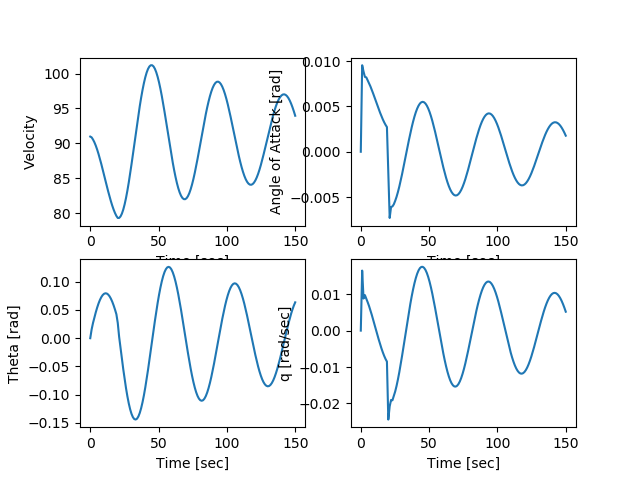
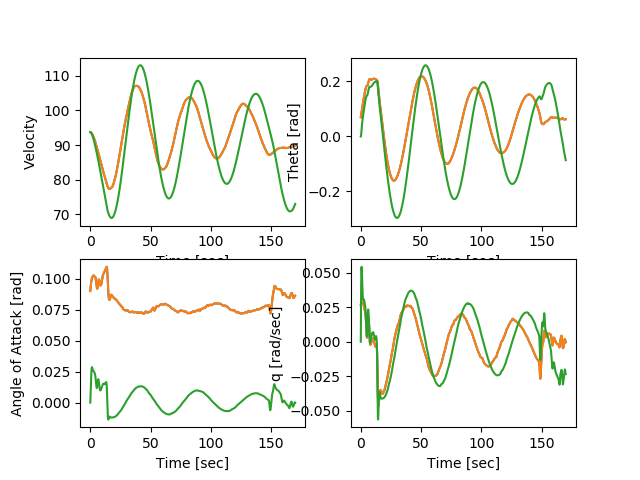
asd

diff --git a/Simulation/Cit_par_updated.py b/Simulation/Cit_par_updated.py
@@ -2,17 +2,17 @@
 from math import *
 # xcg = 0.25 * c
 from FD_CLCD import e, CD0, CLa, CL, CD #For Stationary Part
-from flight_data import time_d, V_tas_d, V_cas_d, roll_angle_d, pitch_angle_d, body_roll_rate_d, body_pitch_rate_d, body_yaw_rate_d, hp_d, m_d #For stationary meas during dynamic part
+from flight_data import time_d, V_tas_d, V_cas_d, roll_angle_d, pitch_angle_d, body_roll_rate_d, body_pitch_rate_d, body_yaw_rate_d, hp_d, m_d, CL_d, CD_d #For stationary meas during dynamic part
 
 
 
 
 
 # ==========================CHOOSE WHICH MOTION===================================================
-#i = 0 #Check code, result is zer
-i = 1 #Aperiodic Roll
+#i = 0 #Check code, result is zero
+#i = 1 #Aperiodic Roll
 # i = 2 #Short Period 
-# i = 3 #Phugoid 
+i = 3 #Phugoid 
 # i = 4 #Dutch Roll 
 # i = 5 #Dutch Roll with Yaw Damper 
 # i = 6 #Spiral 
@@ -86,8 +86,8 @@ depsda = 4 / (A + 2)            # Downwash gradient [ ]
 
 # Lift and drag coefficient
 
-CL =  CL[i]       # Lift coefficient [ ]
-CD =  CD[i]       # Drag coefficient [ ]
+CL =  CL_d[i]       # Lift coefficient [ ]
+CD =  CD_d[i]       # Drag coefficient [ ]
 
 #--------------------------------------------------------
 

diff --git a/Simulation/statespace_sym.py b/Simulation/statespace_sym.py
@@ -6,6 +6,7 @@ import control.matlab as ml
 import matplotlib.pyplot as plt
 #from FD_CLCD import *
 from scipy import signal
+from flight_data_plots import *
 
 """Symmetric equations of motion to state space form"""
 
@@ -47,11 +48,11 @@ eig = np.linalg.eig(A_sym)
 #print (sys_sym)
 
 
-t = np.linspace(0., 150, 150)
+t = np.linspace(0., 170, 1700)
 u = np.zeros(len(t))
 for i in range (20):
     u[i] = -0.006
-z,x,c = ml.lsim(sys_sym2, u, t)
+z,x,c = ml.lsim(sys_sym2, delta_e_input_phugoid, t)
 
 #yout, T = ml.impulse(sys_sym2)
 
@@ -60,12 +61,12 @@ plt.plot(t, (z[:,0] + V0))
 plt.xlabel('Time [sec]')
 plt.ylabel('Velocity')
 
-plt.subplot(2, 2, 2)
+plt.subplot(2, 2, 3)
 plt.plot(t, (z[:,1]))
 plt.xlabel('Time [sec]')
 plt.ylabel('Angle of Attack [rad]')
 
-plt.subplot(2, 2, 3)
+plt.subplot(2, 2, 2)
 plt.plot(t, (z[:,2]))
 plt.xlabel('Time [sec]')
 plt.ylabel('Theta [rad]')

diff --git a/Simulation/flight_data.py b/Simulation/flight_data.py
@@ -220,5 +220,5 @@ for i in lst_element:
     rho_d.append(rho_d1[i])                                     #kg/m^3
 
 for i in range(1, len(thrust_d), 1):
-    CL_d.append((m_d[i]*g0)/(0.5*rho_d[i]*V_tas_d[i]**2*S))
+    CL_d.append((m_d[i]*g0)/(0.5*rho_d[i]*(V_tas_d[i]**2)*S))
     CD_d.append((thrust_d[i])/(0.5*rho_d[i]*V_tas_d[i]**2*S))

diff --git a/Simulation/flight_data_plots.py b/Simulation/flight_data_plots.py
@@ -27,8 +27,8 @@ print (lst_element)
 
 "*** Phugoid Motion ***"
 time_phugoid = 170
-x_f1 = 25
-x_b1 = -25
+x_f1 = 0
+x_b1 = 0
 x_change1 = (-x_f1 + x_b1)
 
 plt.subplot(221)
